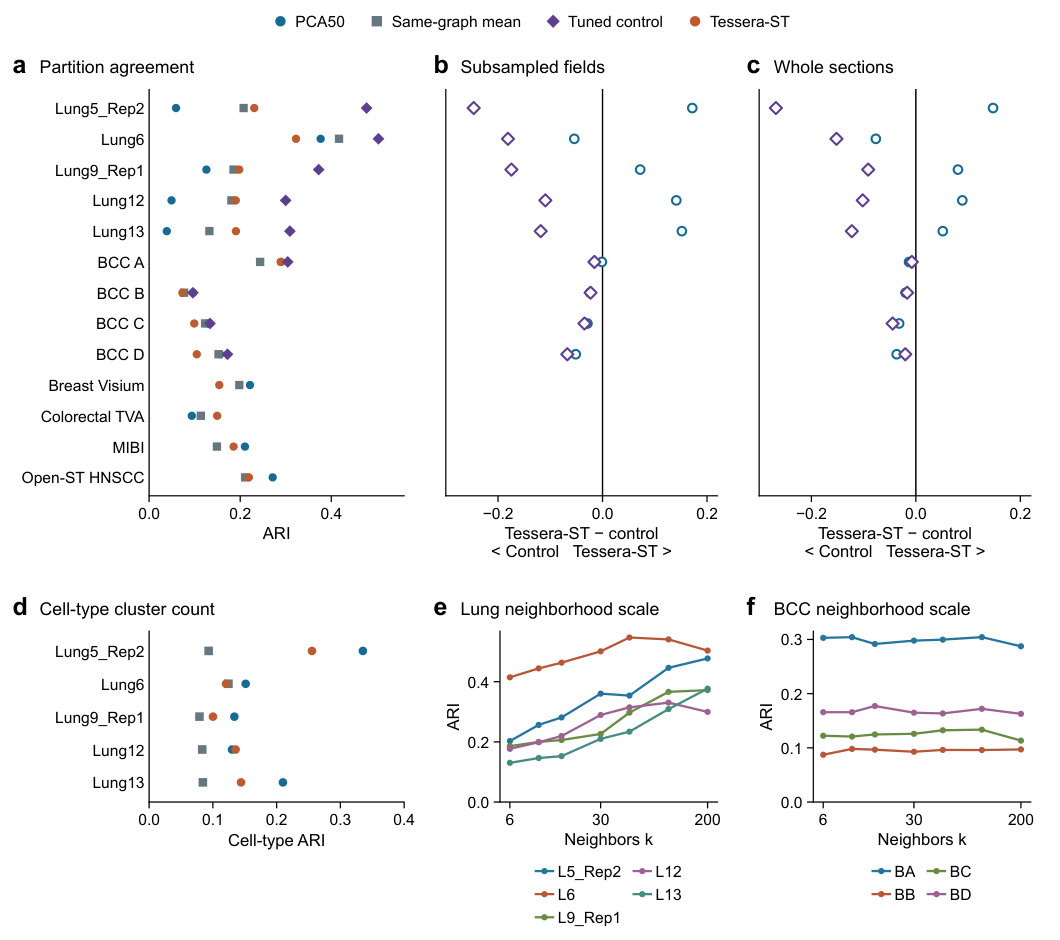
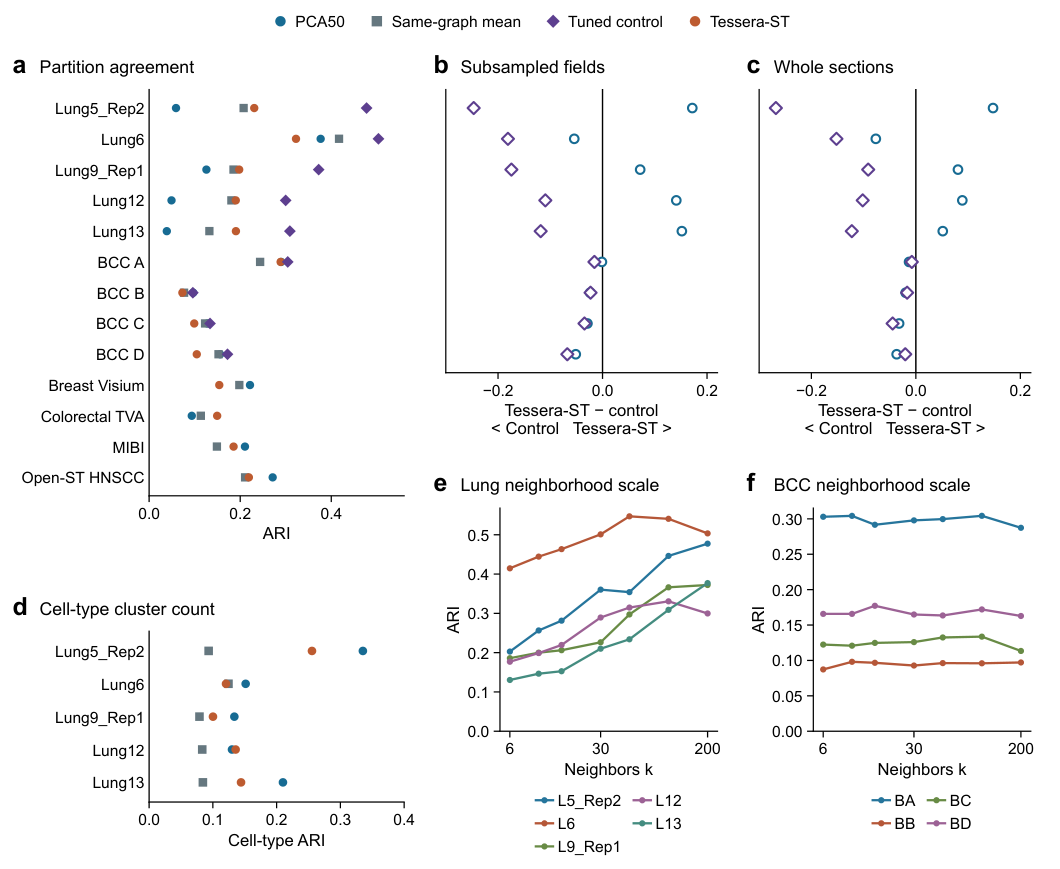
Tighten the layout of revision Figures 3, 7, 8 and 9
Figure 3: panels b and c keep only their nine rows at panel a's row
pitch, and panels e and f move up into the freed space. Figure 7: arm
names only under the lower row. Figures 8 and 9: x ranges fitted to the
data and a smaller row pitch. Plotted data are unchanged (QA record).

diff --git a/revision-r1/figures/r1_statistical.py b/revision-r1/figures/r1_statistical.py
@@ -185,12 +185,18 @@ def figure_03():
     gap = 6
     wa = 196
     wb = (W - wa - 2 * gap) / 2
+    # Panels b and c hold only the nine lung and BCC rows. They keep panel a's row pitch, so each row lines up
+    # with its label in a, and panels e and f move up into the space the other four rows would have used.
+    pitch = (h1 - HEADER - bottom1) / 13.2
+    hb = HEADER + 9.2 * pitch + bottom1
     a = cv.panel(0, row1, wa, h1, 'a', 'Partition agreement', left=left_a, bottom=bottom1, right=8)
-    b = cv.panel(wa + gap, row1, wb, h1, 'b', 'Subsampled fields', left=6, bottom=bottom1, right=8)
-    c = cv.panel(wa + 2 * gap + wb, row1, wb, h1, 'c', 'Whole sections', left=6, bottom=bottom1, right=8)
+    b = cv.panel(wa + gap, row1, wb, hb, 'b', 'Subsampled fields', left=6, bottom=bottom1, right=8)
+    c = cv.panel(wa + 2 * gap + wb, row1, wb, hb, 'c', 'Whole sections', left=6, bottom=bottom1, right=8)
+    a.set_ylim(12.6, -.6)
+    for ax in (b, c):
+        ax.set_ylim(8.6, -.6)
     for ax in (a, b, c):
-        ax.set_ylim(12.6, -.6)
-        ax.set_yticks(y)
+        ax.set_yticks(y if ax is a else y[:9])
         ax.tick_params(axis='y', length=0)
     a.set_yticklabels([SHORT[n] for n in OBJECTS])
     for ax in (b, c):
@@ -216,9 +222,12 @@ def figure_03():
         ax.set_xlim(-.30, .22)
         ax.set_xticks([-.2, 0, .2])
         contrast_label(ax)
-    row2, h2 = row1 + h1 + 8, 162
+    row2, hd = row1 + h1 + 8, 128
     bottom2 = X_AXIS
-    d = cv.panel(0, row2, wa, h2 - 34, 'd', 'Cell-type cluster count', left=left_a, bottom=bottom2, right=8)
+    total = row2 + hd
+    row_ef = row1 + hb + 8
+    h_ef = total - row_ef - 34  # 34 pt below each panel for its legend
+    d = cv.panel(0, row2, wa, hd, 'd', 'Cell-type cluster count', left=left_a, bottom=bottom2, right=8)
     rescore = S.read_csv(FOLLOW / 'rescore.csv')
     r = rescore[rescore.object.isin(OBJECTS[:5])].groupby(['object', 'arm']).ari_celltype_at_celltype_K.mean()
     celltype = {}
@@ -237,7 +246,7 @@ def figure_03():
     for i, (letter, text, names, kind) in enumerate([('e', 'Lung neighborhood scale', OBJECTS[:5], 'NeighborMean'),
                                                      ('f', 'BCC neighborhood scale', OBJECTS[5:9], 'BANKSY-style')]):
         x = wa + gap + i * (wb + gap)
-        ax = cv.panel(x, row2, wb, h2 - 34, letter, text, left=Y_AXIS - 4, bottom=bottom2, right=8)
+        ax = cv.panel(x, row_ef, wb, h_ef, letter, text, left=Y_AXIS - 4, bottom=bottom2, right=8)
         for n, col in zip(names, S.PATIENT_SHADES):
             sub = scales[(scales.object == n) & (scales.kind == kind)]
             if kind == 'BANKSY-style':
@@ -252,9 +261,9 @@ def figure_03():
         ax.set_ylabel('ARI')
         box = ax.get_position()
         centre = (box.x0 + box.x1) / 2 * W
-        cv.legend(ax.get_legend_handles_labels()[0], centre, row2 + h2 - 30, ncol=2, size=LEGEND,
+        cv.legend(ax.get_legend_handles_labels()[0], centre, row_ef + h_ef + 4, ncol=2, size=LEGEND,
                   handlelength=1.1, columnspacing=.8, handletextpad=.3)
-    cv.resize(row2 + h2)
+    cv.resize(total)
     return save(cv, 'figure-03', {'a': series, 'bounded_vs_pca': vp, 'bounded_vs_tuned': vt, 'whole_vs_pca': wp,
                                    'whole_vs_tuned': wt, 'd': celltype, 'scale_curves': curves})
 
@@ -330,17 +339,20 @@ def figure_07():
     labels = ['PCA50', 'Self-only', SGM, '200-neighbor mean', TST]
     colors = [COLOR['PCA50'], COLOR['SelfOnly'], COLOR['NeighborMean'], COLOR['Mean200'], COLOR['Tessera']]
     cv = Canvas(400)
-    gap_x, gap_y = 10, 10
+    gap_x, gap_y = 10, 4
     wb = (W - gap_x) / 2
-    hb = 190
+    plot_h = 118                    # plotting height of every panel
+    top_h = HEADER + plot_h + 8     # upper row: the arms are named once, under the lower row
+    low_h = HEADER + plot_h + 52    # lower row: room for the slanted arm names
     record = {}
     for i, (target, metric) in enumerate([('region', 'balanced_accuracy'), ('cell_type', 'balanced_accuracy'),
                                           ('region', 'accuracy'), ('cell_type', 'accuracy')]):
         x = 0 if i % 2 == 0 else wb + gap_x
-        y = 0 if i < 2 else hb + gap_y
+        y = 0 if i < 2 else top_h + gap_y
         title = ('Regions' if target == 'region' else 'Cell types') + (': balanced accuracy' if metric == 'balanced_accuracy'
                                                                          else ': accuracy')
-        ax = cv.panel(x, y, wb, hb, 'abcd'[i], title, left=Y_AXIS + 6, bottom=52, right=8)
+        ax = cv.panel(x, y, wb, top_h if i < 2 else low_h, 'abcd'[i], title, left=Y_AXIS + 6,
+                      bottom=8 if i < 2 else 52, right=8)
         matrix = np.array([[float((means if a in mean_names else primary).loc[(n, a, target), metric]) for n in OBJECTS[:5]]
                            for a in arms])
         for values in matrix.T:
@@ -348,13 +360,16 @@ def figure_07():
         for j, col in enumerate(colors):
             ax.scatter(np.full(5, j), matrix[j], s=14, color=col, linewidths=0, zorder=3)
             ax.plot([j - .22, j + .22], [matrix[j].mean()] * 2, color=INK, lw=1.5, zorder=4)
-        ax.set_xticks(np.arange(5), labels, rotation=30, ha='right', rotation_mode='anchor')
+        if i < 2:
+            ax.set_xticks(np.arange(5), [])
+        else:
+            ax.set_xticks(np.arange(5), labels, rotation=30, ha='right', rotation_mode='anchor')
         ax.set_xlim(-.5, 4.5)
         ax.set_ylim(0, 1)
         ax.set_yticks([0, .25, .5, .75, 1])
         ax.set_ylabel('Held-out patient score')
         record[f'{target}_{metric}'] = matrix
-    cv.resize(2 * hb + gap_y)
+    cv.resize(top_h + gap_y + low_h)
     return save(cv, 'figure-07', {'arms': arms, 'patients': OBJECTS[:5], **record})
 
 
@@ -454,8 +469,8 @@ def seam_dots(ax):
                    linewidths=0)
     ax.set_yticks(list(y) + [mean_row], [u[0] for u in units] + ['Mean'])
     ax.axvline(.5, color=S.GRAY, lw=.8, ls='--', zorder=0)
-    ax.set_xlim(.3, .92)
-    ax.set_xticks([.3, .4, .5, .6, .7, .8])
+    ax.set_xlim(.33, .78)
+    ax.set_xticks([.4, .5, .6, .7])
     ax.set_xlabel('Seam AUROC on tumor-boundary edges')
     return {c: {'per_unit': [seam['per_unit'][u][c] for u in units], 'mean': seam['mean'][c]} for c, *_ in SEAM_COLUMNS}
 
@@ -473,7 +488,7 @@ def figure_08():
     """Independent pathologist cohort (old Figure 11 panels a, c and d)."""
     cv = Canvas(420)
     top_legend(cv, arm_legend_handles())
-    row1, h1 = 17, 206
+    row1, h1 = 17, 192
     wa = 186
     a = cv.panel(0, row1, wa, h1, 'a', 'All labels', left=16, bottom=X_AXIS, right=8)
     rec_a = arm_dots(a, 'all', (-.01, .38), [0, .1, .2, .3])
@@ -482,7 +497,7 @@ def figure_08():
     xb = wa + 8
     b = cv.panel(xb, row1, W - xb, h1, 'b', 'Paired contrasts', left=left_b, bottom=X_AXIS, right=30)
     rec_b = forest(b, left_b)
-    row2, h2 = row1 + h1 + 8, 178
+    row2, h2 = row1 + h1 + 8, 166
     wc = 312
     c = cv.panel(0, row2, wc, h2, 'c', 'Seam AUROC', left=34, bottom=X_AXIS, right=8)
     rec_c = seam_dots(c)
@@ -558,7 +573,7 @@ def figure_S15():
 
 
 # ============================================================ main Figure 9 / S16
-def landscape_panels(cv, specs, top, height, legend_handles=None):
+def landscape_panels(cv, specs, top, height, legend_handles=None, contrast_xlim=(-.4, .5), contrast_ticks=(-.3, 0, .3)):
     """Shared 24-row layout for the landscape contrasts (old Figure 12, upper row)."""
     table = landscape()
     n = len(table)
@@ -591,8 +606,8 @@ def landscape_panels(cv, specs, top, height, legend_handles=None):
                                   'pca': ('tessera_minus_pca50', 'o', 'PCA50')}[kind]
             open_marker(ax, table[field], yy, key, marker=marker, s=16)
             ax.axvline(0, color=INK, lw=.6)
-            ax.set_xlim(-.4, .5)
-            ax.set_xticks([-.3, 0, .3])
+            ax.set_xlim(*contrast_xlim)
+            ax.set_xticks(list(contrast_ticks))
             contrast_label(ax)
             record[field] = table[field].tolist()
     return record
@@ -602,8 +617,9 @@ def figure_09():
     """Annotation landscape (old Figure 12 panels a, b and e)."""
     table = landscape()
     cv = Canvas(470)
-    top, h1 = 0, 318
-    record = landscape_panels(cv, [('a', SGM, 'same'), ('b', 'Test-selected', 'oracle')], top, h1)
+    top, h1 = 0, 292
+    record = landscape_panels(cv, [('a', SGM, 'same'), ('b', 'Test-selected', 'oracle')], top, h1,
+                              contrast_xlim=(-.3, .23), contrast_ticks=(-.2, 0, .2))
     row2 = top + h1 + 6
     groups = table.group.drop_duplicates().tolist()
     left = cv.text_width(groups, TICK) + 7
